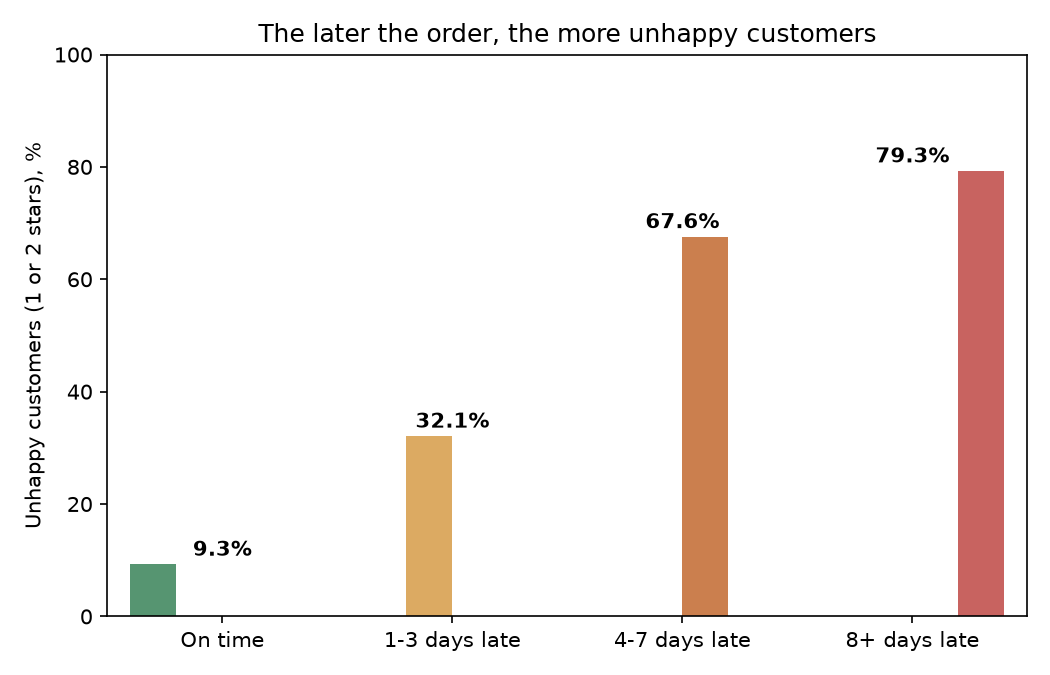
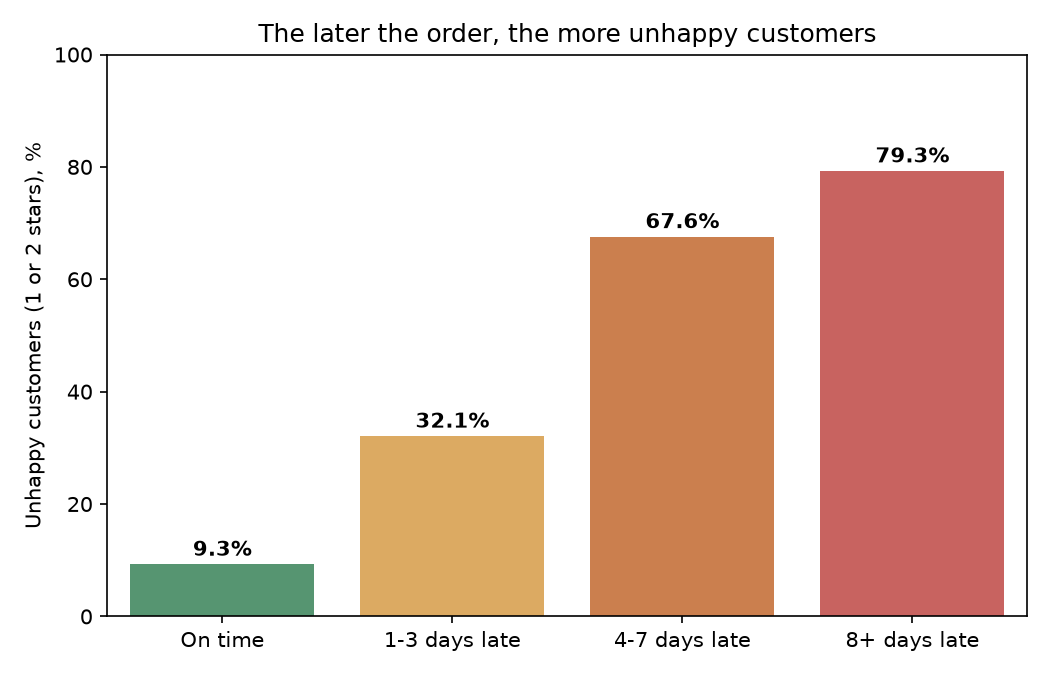
Add Python notebook, charts and findings

diff --git a/notes/findings.md b/notes/findings.md
@@ -10,6 +10,6 @@ Finding 4: The longer the delay, the worse the review. Unhappy reviews (1 or 2 s
 
 Finding 5: Late delivery differs a lot by state (states with 500+ orders). Maranhão (MA) has the highest late rate at 17.4%, and Paraná (PR) has the lowest at 4.0%. Rio de Janeiro (RJ) has a 12.1% late rate and 1,495 late orders, about 23% of all late orders. São Paulo (SP) and RJ together account for about half of all late orders.
 
-Finding 6: I read a random sample of 30 one-star comments from orders that arrived on time. Almost none complained about delivery speed. The main reasons were wrong or not-as-described items (7), incomplete orders (7), orders marked delivered but never received (6), poor quality or broken items (6), and ignored cancellation or return requests (3). Order accuracy (wrong or missing items) was about 47% of the sample. Limit: small sample of 30, rough guide only.
+Finding 6: I read a random sample of 30 one-star comments from orders that arrived on time. Almost none complained about delivery speed. The main reasons were wrong or not-as-described items (7), incomplete orders (7), orders marked delivered but never received (6), poor quality or broken items (6), and ignored cancellation or return requests (3). Limit: small sample of 30, rough guide only.
 
-Finding 7: A Mann-Whitney test confirms the review gap between on-time orders (average 4.29, 89,443 reviewed orders) and late orders (average 2.27, 6,381 reviewed orders) is statistically significant (p < 0.001). The gap is about 2 stars.
+Finding 7: A Mann-Whitney test confirms the review gap between on-time orders (average 4.29) and late orders (average 2.27) is statistically significant (p < 0.001). The gap is about 2 stars.
